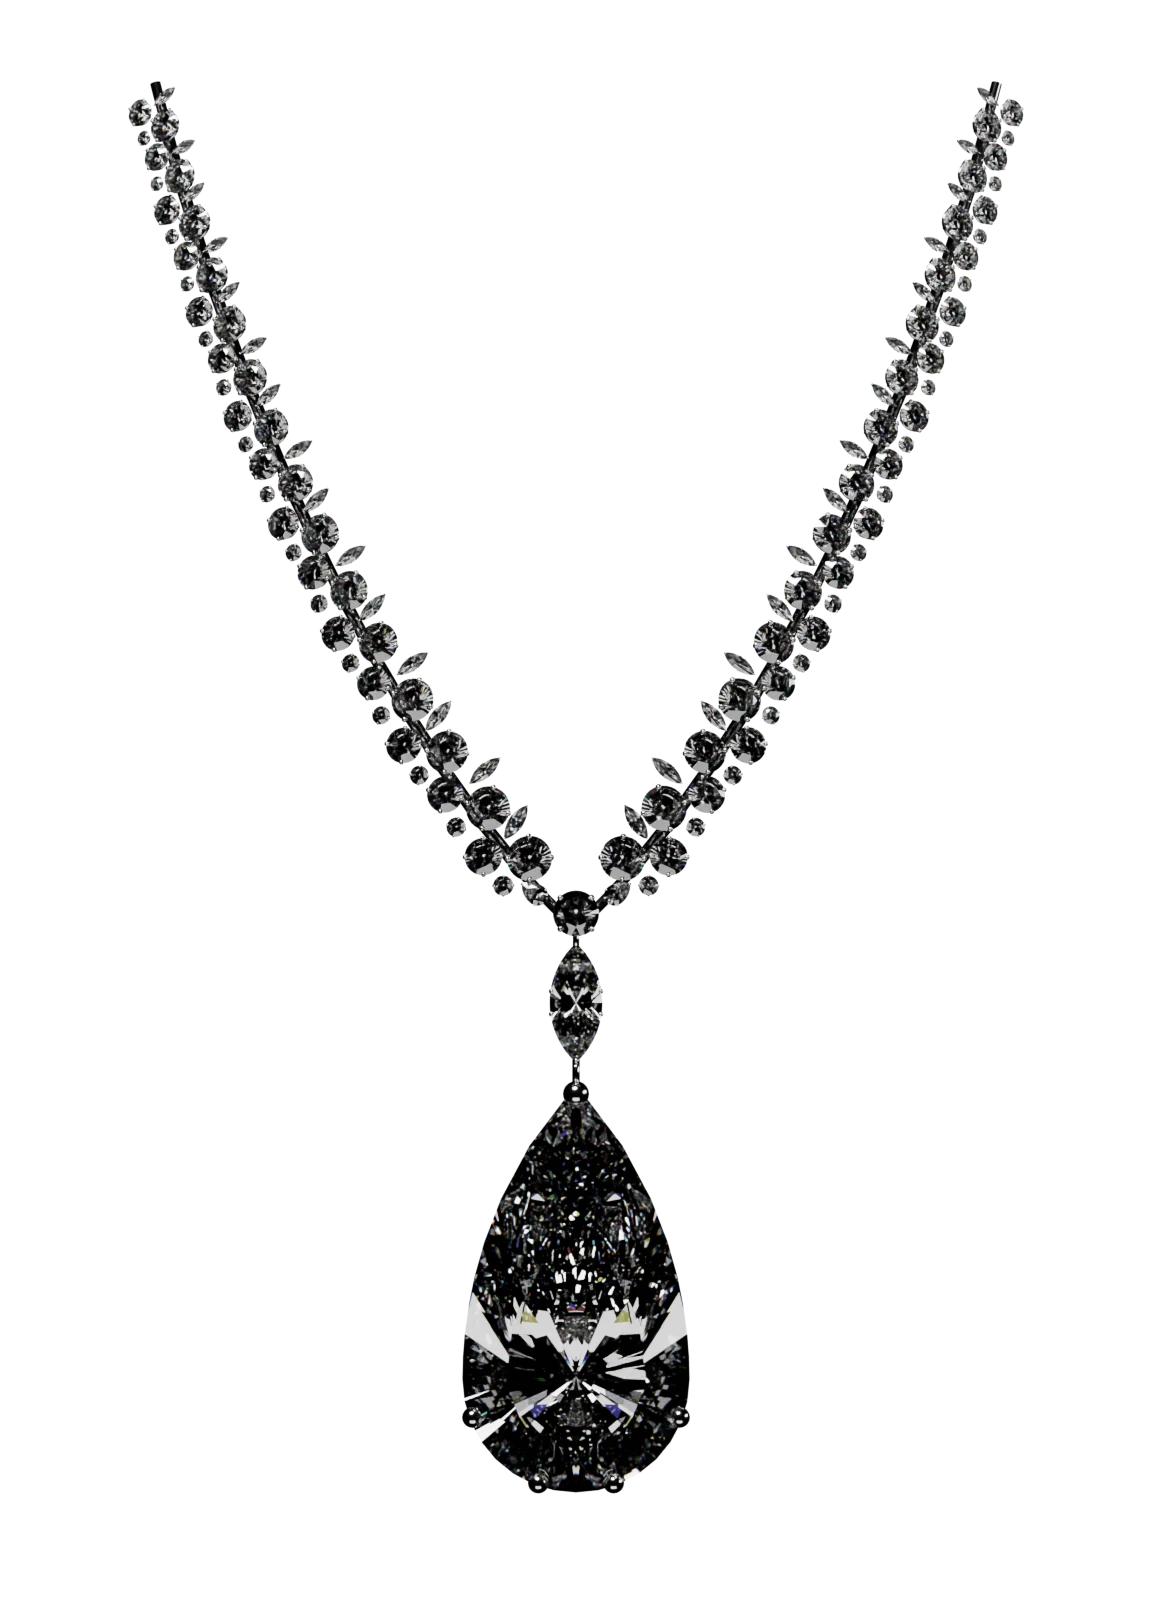
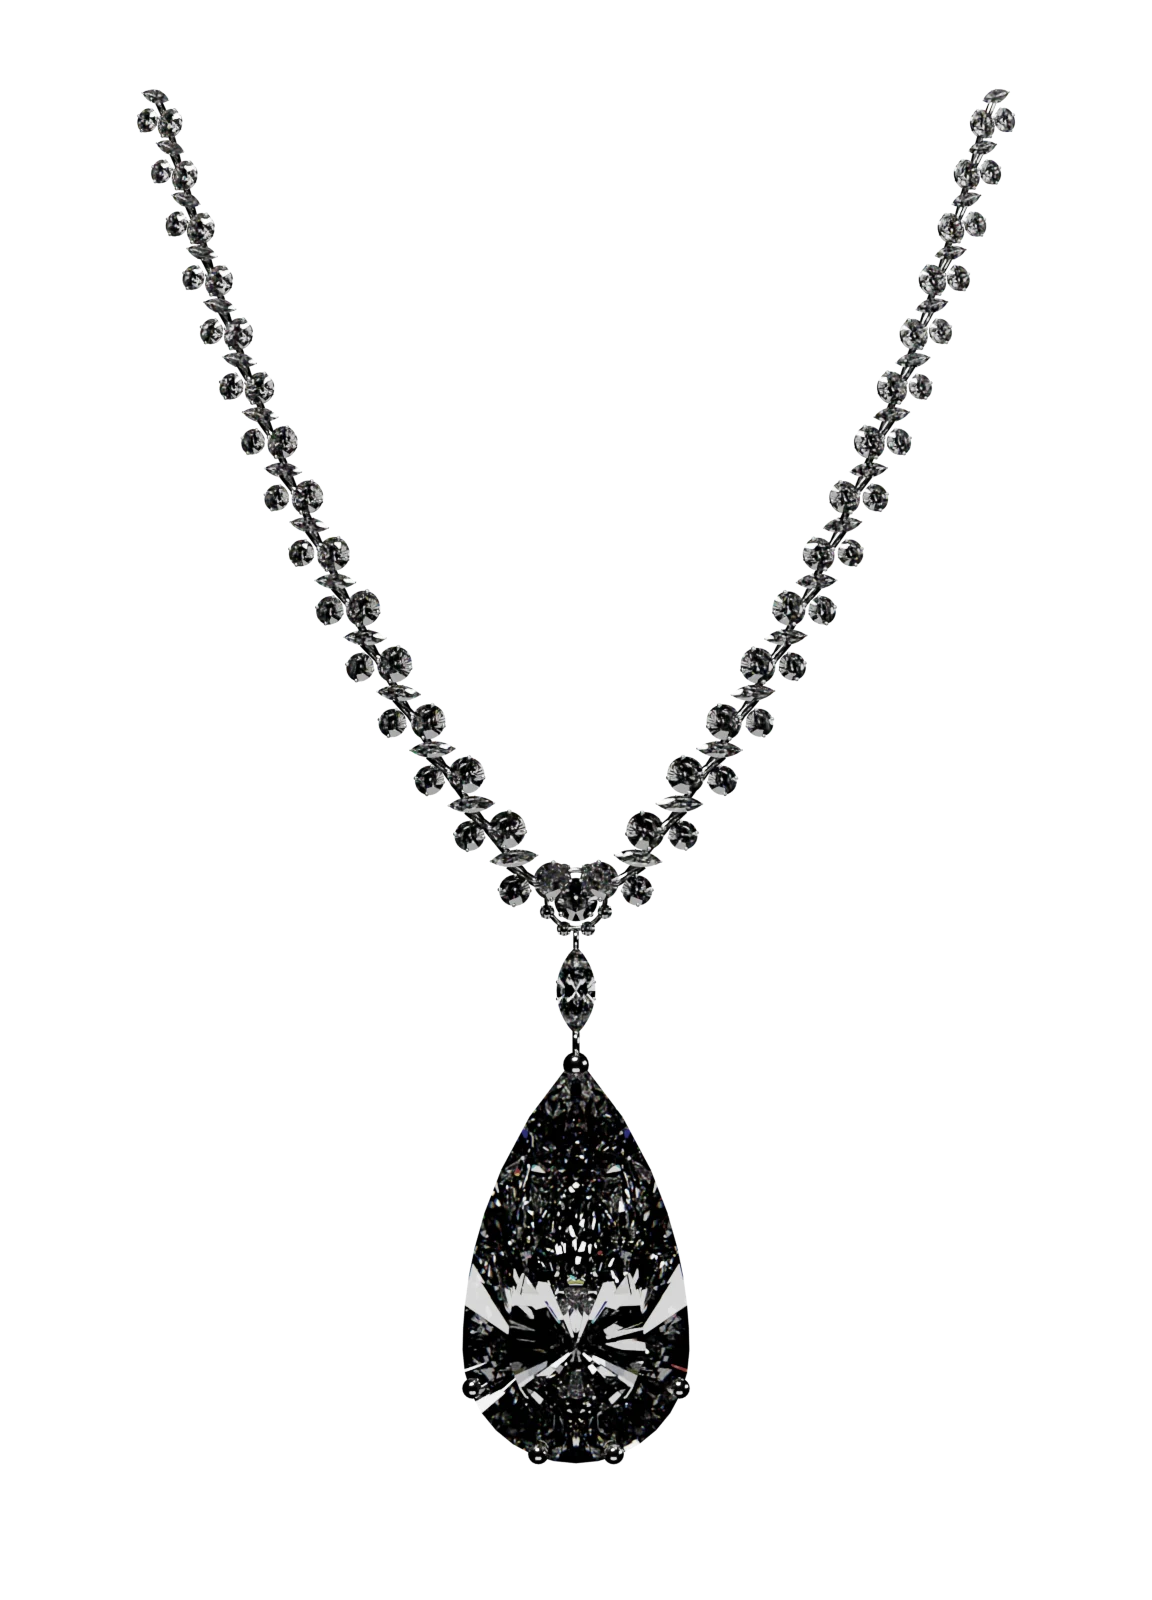
Jewelry: the band rebuilt as the reference's twisted construction; a dark field of its own
- The sides rebuilt, not patched: a continuous band of articulated modules
  along one smooth curve per side, each a diagonal pair of rounds leaning one
  way and a marquise leaning the other on its own gallery, hinged to the next
  (the reference's twisted band); modules close up to one another, narrowing
  toward the neck, about a third of the drop's width at the front.
- The centre: a centre setting where the sides meet (a round ringed by eight
  melee), a standing marquise, the 36 x 20 mm pear drop.
- The jewellery has a dark field of its own (#070707) wherever it is shown
  large, in either theme: the stage (its field fades in and out with its
  layer, as one with its name, words and object) and its world's hero. The
  light theme's separate render is gone: the transparent stones show the
  field through themselves, dark and transparent.
- On a phone the stage band shows the centre and drop large enough to read
  as a necklace; the world's field runs edge to edge.

Claude-Session: https://claude.ai/code/session_01ND34h3CQFwLi2jV16e1Vwz

Changed region(s): [[0.0938, 0.0312, 0.9062, 0.9375]]

diff --git a/art/necklace.py b/art/necklace.py
@@ -2,31 +2,31 @@
 and rendered as a studio photograph of a real piece, floating on nothing.
 
 The design follows a reference photograph (a V necklace on a display bust):
-- two sides that come down from the neck and meet in a V, each a twisted
-  band of round brilliants set in two staggered rows, a marquise laid across
-  every gap between them, the stones growing larger toward the front;
-- at the V a round brilliant, a marquise hanging from it, and from that the
-  pear-shaped drop, point up: 30 x 16 mm, the piece's focus.
+- two sides that come down from the neck along one smooth curve each and
+  meet in a V: a continuous band of articulated modules, each a diagonal
+  pair of round brilliants leaning one way and a marquise leaning the other,
+  on its own gallery, hinged to the next (the reference's twisted band);
+- where they meet, a centre setting (a round ringed by eight melee), a
+  standing marquise, and the pear-shaped drop, point up: 36 x 20 mm, the
+  piece's focus.
 
 Units are millimetres. Every stone is a faceted solid (a round brilliant's
 table, star, bezel, upper and lower girdle and pavilion facets; the pear and
-the marquise are the same brilliant drawn out to their outline), diamond's
-index 2.417, and dispersion from one render per colour channel at that
-channel's index, only part of it kept (fire at the edges, never rainbow
-bands). Each stone sits in its own setting: a collet ring under the girdle
-and claws over its edge (a V claw at a point), all on a rail that runs the
-length of each side; jump rings join the V, the marquise and the drop.
-Platinum with roughness that varies across the surface and fine scratches.
+the marquise are the same brilliant drawn out to their outline), glass at
+diamond's index 2.417, roughness 0.01, rendered once per colour channel at
+the C, d and F lines (Abbe number 55). Each stone sits in its own collet with
+claws over its edge (a V claw at a point); jump rings join the centre, the
+marquise and the drop. Platinum, roughness about 0.12, barely varying.
 
-No ground, no shadow: the necklace hangs in a white light box with dark
-flags (the facets mirror them, which gives a diamond its contrast), a
-large softbox above, and the film is transparent, so the page is its
-background.
+No ground, no shadow: the necklace hangs in a dark studio lit by three large
+soft sources (key, fill, rim at 1 : 0.2 : 0.15) with black flags; the film
+and the glass are transparent, so the page's own dark field (style.py, the
+jewellery's "field") shows through the stones: transparent, and dark.
 
 Run with Blender's Python module (pip install bpy==4.2.0 numpy pillow, Python 3.11):
 
-    python art/necklace.py jewelry.png 1600 160
-    then: Image.open("jewelry.png").save("static/subjects/jewelry.webp", quality=86, method=6)
+    python art/necklace.py jewelry.png 1600 96
+    then: Image.open("jewelry.png").save("static/subjects/jewelry.webp", quality=88, method=6)
 
     python necklace.py OUT.png [height] [samples] [--mono] [--light]"""
 import math
@@ -262,13 +262,20 @@ def jump_ring(p, r, tube, axis):
 
 
 # ---------- the sides: articulated modules along one smooth V ----------
-# Each side is a cubic Bézier from the V up to the neck; a slight tipping of
-# the stones' faces follows the neck they would lie around.
+# Each side is a cubic Bézier from the centre up to the neck, its curve
+# tightening toward the centre; the stones' faces tip a little with the neck
+# they would lie around. Along it, one module repeats, each a small
+# construction of its own on a metal gallery, hinged to the next, and set so
+# the band reads as twisted, as the reference's does:
+#   a diagonal pair of rounds leaning one way (2.5 mm outside, 2.0 mm inside,
+#   half a step on), then a marquise (1.1 x 3.2 mm) leaning the other way.
+# Modules close up to one another; no two stones touch (checked when this was
+# drawn up); metal shows between them.
 NECK = 60.0
 
 
 def bezier(t, sx):
-    p0, p1, p2, p3 = Vector((0, 0, 0)), Vector((sx * 7, 5.5, 0)), Vector((sx * 27, 30, 0)), Vector((sx * 39, 76, 0))
+    p0, p1, p2, p3 = Vector((0, 0, 0)), Vector((sx * 8, 6.5, 0)), Vector((sx * 27, 31, 0)), Vector((sx * 39, 78, 0))
     q = (1 - t) ** 3 * p0 + 3 * (1 - t) ** 2 * t * p1 + 3 * (1 - t) * t ** 2 * p2 + t ** 3 * p3
     q.z = NECK * (math.cos(math.asin(min(abs(q.x) / (NECK + 8), 0.99))) - 1)       # curving back round the neck
     return q
@@ -279,17 +286,13 @@ def face_normal(p):
     return (n + Vector((0, 0.15, 0))).normalized()
 
 
-# one module (mm, in the band's own frame: x along it, y across it, the outside +y):
-# a principal round on the outside, a smaller round on the inside half a step on
-# (the two rows interlock, stone to stone), a small round in the inner notch, and
-# a marquise standing out of the outer notch, the band's leafy outer edge; checked
-# so no two stones touch
-MODULE = [("round", 1.0, 1.40, (0.0, 0.9), 0),
-          ("round", 1.0, 1.15, (2.15, -1.0), 0),
-          ("round", 1.0, 0.60, (0.0, -1.45), 0),
-          ("marquise", 2.8, 0.45, (2.15, 1.95), 80)]
-PITCH = 4.3
-SCALE = 1.45   # the band about a third of the drop's width, as in the reference
+MODULE = [("round", 1.25, (0.0, 1.05), 0),                 # (shape, half-width, place in the band, lean)
+          ("round", 1.0, (1.25, -1.2), 0),
+          ("marquise", 0.55, (2.85, 0.2), -55)]
+PITCH = 4.6
+BASE = 1.35                                                  # the band at the front about a third of the drop's width
+MQ_RATIO = 1.6 / 0.55
+
 
 for sx in (-1, 1):
     ts = [i / 3000 for i in range(3001)]
@@ -302,47 +305,55 @@ for sx in (-1, 1):
         i = min(range(len(lens)), key=lambda k: abs(lens[k] - dist))
         return line[i], (line[min(i + 1, len(line) - 1)] - line[max(i - 1, 0)]).normalized()
 
-    # the hinge rail under the modules, visible between them
-    wire([line[i] + face_normal(line[i]) * -1.6 for i in range(0, len(line), 60)], 0.45)
-    dist, k, prev = 7.0, 0, None
-    while dist < lens[-1] - 2:
-        g = SCALE * (1.0 - 0.3 * min(1.0, dist / 95))         # modules grow toward the front
-        p, t = at(dist)
+    # the modules, from beside the centre setting up to the neck, a little smaller as they go
+    dist, k, prev = 4.2, 0, None
+    while True:
+        g = BASE * (1.0 - 0.25 * min(1.0, dist / 100))
+        if dist + PITCH * g > lens[-1] - 1:
+            break
+        p, t = at(dist + 1.4 * g)
         n = face_normal(p)
-        b = n.cross(t).normalized() * sx                      # across the band, the outside +
-        turn = math.radians(7 if k % 2 else -5)               # each module sits a little differently
+        t = (t - n * t.dot(n)).normalized()
+        b = n.cross(t).normalized() * sx                     # across the band, the outside +
+        turn = math.radians(rng.uniform(-3, 3))              # each module set by hand, a little differently
         t2 = (t * math.cos(turn) + b * math.sin(turn)).normalized()
         b2 = n.cross(t2).normalized() * sx
-        for shape, lh, hw, (u, v), ang in MODULE:
-            pos = p + (t2 * u + b2 * v) * g + n * 0.12
+        for shape, hw, (u, v), lean in MODULE:
+            pos = p + (t2 * (u - 1.4) + b2 * v) * g + n * 0.12 * g
             if shape == "round":
                 place("round", 1.0, hw * g * rng.uniform(0.97, 1.03), pos, n, t2)
             else:
-                a = math.radians(ang)
+                a = math.radians(lean)
                 axis = (t2 * math.cos(a) + b2 * math.sin(a)).normalized()
-                place("marquise", lh, hw * g, pos + n * 0.1, n, axis)
-        # the module's hinge to the last one, under the stones
-        here = p + n * -1.1
+                place("marquise", MQ_RATIO, hw * g, pos + n * 0.08 * g, n, axis)
+        # the module's gallery bar under its stones, hinged to the last
+        here = p - n * 0.9 * g
+        wire([p + (t2 * -1.4 + b2 * 0.5) * g - n * 0.7 * g, here, p + (t2 * 1.5 - b2 * 0.3) * g - n * 0.7 * g], 0.3 * g)
         if prev is not None:
-            wire([prev, (prev + here) / 2 + n * -0.3, here], 0.4 * g)
+            wire([prev, (prev + here) / 2 - n * 0.25 * g, here], 0.26 * g)
         prev = here
         dist += PITCH * g
         k += 1
 
-# ---------- the centre: the two sides gather to a round, then the marquise, then the drop ----------
+# ---------- the centre: a larger cluster where the sides meet, a vertical marquise, the drop ----------
 front = Vector((0, 0.1, 1)).normalized()
-place("round", 1.0, 2.0, Vector((0, 1.0, 0.5)), front, Vector((0, 1, 0)))
-for sx in (-1, 1):                                            # small pears leading each side in
-    place("pear", 1.9, 0.9, Vector((sx * 3.4, 2.6, 0.3)), front, Vector((sx * 0.8, 0.6, 0)).normalized())
-MQ_W, MQ_LH = 2.3, 2.3                                        # 4.6 x 10.6 mm
-place("marquise", MQ_LH, MQ_W, Vector((0, -1.6 - MQ_W * MQ_LH, 0.2)), front, Vector((0, 1, 0)))
-jump_ring(Vector((0, -1.3, -0.3)), 0.8, 0.26, Vector((1, 0, 0)))
-ring_y = -1.6 - 2 * MQ_W * MQ_LH - 0.9
-jump_ring(Vector((0, ring_y, -0.3)), 1.1, 0.32, Vector((1, 0, 0)))
+up = Vector((0, 1, 0))
+CENTRE = Vector((0, 2.2, 0.4))
+place("round", 1.0, 1.9, CENTRE + front * 0.2, front, up)                  # 3.8 mm
+for k in range(8):                                                        # ringed by eight melee
+    a = math.pi / 8 + math.pi / 4 * k
+    place("round", 1.0, 0.62, CENTRE + Vector((math.cos(a), math.sin(a), 0)) * 2.75, front, up)
+wire([CENTRE + Vector((math.cos(2 * math.pi * k / 40), math.sin(2 * math.pi * k / 40), -1.1)) * 1 * 2.6
+      for k in range(40)], 0.2, closed=True)
+MQ_W, MQ_LH = 1.7, 2.3                                                    # the connector: 3.4 x 7.8 mm, standing
+mq_top = CENTRE.y - 3.5 - 0.6
+place("marquise", MQ_LH, MQ_W, Vector((0, mq_top - MQ_W * MQ_LH, 0.2)), front, up)
+jump_ring(Vector((0, CENTRE.y - 3.5, -0.4)), 0.7, 0.24, Vector((1, 0, 0)))
+ring_y = mq_top - 2 * MQ_W * MQ_LH - 0.8
+jump_ring(Vector((0, ring_y, -0.4)), 1.1, 0.32, Vector((1, 0, 0)))
 # the drop: 20 mm across, 36 mm long, point up
 PEAR_W, PEAR_LH = 10.0, 2.6
-place("pear", PEAR_LH, PEAR_W, Vector((0, ring_y - 1.0 - PEAR_LH * PEAR_W, 0.0)), Vector((0, -0.02, 1)).normalized(),
-      Vector((0, 1, 0)))
+place("pear", PEAR_LH, PEAR_W, Vector((0, ring_y - 1.0 - PEAR_LH * PEAR_W, 0.0)), Vector((0, -0.02, 1)).normalized(), up)
 
 # ---------- the studio: dark, lit by three large soft sources ----------
 # The film is transparent and so is the glass where it shows only the dark

diff --git a/coach/visuals.py b/coach/visuals.py
@@ -25,7 +25,8 @@ STATIC = Path(__file__).resolve().parent.parent / "static"
 #   shows    what its object is (alt text)
 #   object   "subjects/<file>"
 #   cut      the object stands free (no background of its own), not framed
-#   light    (optional) the same object photographed for the light theme; "object" is then the dark theme's
+#   field    (optional) "dark": the object needs a dark field of its own to show (a transparent
+#            stone), so wherever it is shown large, it is shown on near-black, in either theme
 #   focus    where a picture sits in its frame (its subject kept in view)
 #   layout   how the world is composed: "figure" (a tall figure beside the
 #            title), "instrument" (an object held in the middle of the
@@ -56,7 +57,7 @@ WORLD = {
     "jewelry": dict(kicker="Craft and materials",
                     shows="A diamond necklace: two twisted bands of round and marquise diamonds meeting in a V, "
                           "a pear-shaped diamond hanging from it",
-                    object="subjects/jewelry.webp", light="subjects/jewelry-light.webp", cut=True, focus="50% 0%", layout="pendant", title="tracked",
+                    object="subjects/jewelry.webp", field="dark", cut=True, focus="50% 0%", layout="pendant", title="tracked",
                     credit="Diamond and platinum necklace with a pear-shaped drop · modelled and rendered for this app"),
     "free": dict(kicker="Across the disciplines",
                  shows="The frontispiece of the Encyclopédie: all the arts and sciences gathered",
@@ -82,14 +83,9 @@ def object_html(topic: str, cls: str, number: int = 0) -> str:
     w = WORLD[topic]
     url = image_url(topic)
     if url:
-        # an object with a light theme's picture: the page shows the one for its theme (style.py)
-        light = w.get("light")
-        themed = (f"--img-dark:url('{url}');--img-light:url('app/static/{light}');"
-                  if light and (STATIC / light).exists() else f"background-image:url('{url}');")
-        return (f'<div class="{cls}{" is-cut" if w.get("cut") else ""}{" is-themed" if "--img-dark" in themed else ""}" '
-                f'data-object="{topic}" data-layout="{w["layout"]}" role="img" '
+        return (f'<div class="{cls}{" is-cut" if w.get("cut") else ""}" data-object="{topic}" data-layout="{w["layout"]}" role="img" '
                 f'aria-label="{escape(w["shows"])}" '
-                f'style="{themed}background-position:{w["focus"]}"></div>')
+                f'style="background-image:url(\'{url}\');background-position:{w["focus"]}"></div>')
     return f'<div class="{cls} no-art" data-object="{topic}" aria-hidden="true" data-n="{number:02d}"></div>'
 
 
@@ -111,6 +107,7 @@ def subject(topic: str) -> dict:
     return {"key": topic, "number": list(settings.SUBJECTS).index(topic) + 1 if topic in settings.SUBJECTS else 0,
             "title": core.TOPICS[topic], "description": settings.DESCRIPTIONS.get(topic, ""),
             "kicker": w["kicker"], "shows": w["shows"], "layout": w["layout"], "title_style": w["title"],
+            "field": w.get("field", ""),
             "credit": credit(topic), "facts": facts(topic)}
 
 

diff --git a/coach/style.py b/coach/style.py
@@ -1897,9 +1897,16 @@ WORLDS = """
 .is-cut { background-size: contain !important; background-repeat: no-repeat !important; border-radius: 0 !important;
   -webkit-mask-image: none !important; mask-image: none !important; filter: none !important; }
 :root[data-scheme="dark"] .is-cut { filter: brightness(0.92) !important; }
-/* an object photographed for each theme: the dark one on the dark page, the light one on the light page */
-.is-themed { background-image: var(--img-light) !important; }
-:root[data-scheme="dark"] .is-themed { background-image: var(--img-dark) !important; filter: none !important; }
+/* a dark field: a subject whose object needs darkness to be seen (a transparent
+   stone) is shown on near-black in either theme, its words set light on it */
+.field-dark, .sg-layer[data-field="dark"], [class*="st-key-world_"][class*="_field"] {
+  --label: #F2F2F2; --label-2: rgba(242, 242, 242, 0.72); --label-3: rgba(242, 242, 242, 0.5); --env: #070707;
+  background: #070707; color: var(--label); color-scheme: dark; }
+.sg-layer[data-field="dark"] .is-cut, [class*="st-key-world_"][class*="_field"] .is-cut { filter: none !important; }
+[class*="st-key-world_"][class*="_field"] { padding: clamp(24px, 4vw, 56px) !important; border-radius: 22px; corner-shape: superellipse(1.6); }
+@media (min-width: 900px) { .sg-layer[data-field="dark"] { padding: clamp(20px, 2.6vw, 36px); border-radius: 22px; corner-shape: superellipse(1.6); } }
+@media (max-width: 899px) { [class*="st-key-world_"][class*="_field"] { padding: 20px 16px !important; margin: 0 -16px; border-radius: 0;
+  width: calc(100% + 32px) !important; max-width: none !important; } }
 
 .w-object.is-cut { background-position: 35% bottom !important; }
 .w-thumb.is-cut, .ob-obj.is-cut { background-color: var(--wash) !important; background-size: auto 86% !important; background-position: center !important; }
@@ -1920,7 +1927,8 @@ WORLDS = """
   [class*="st-key-w_sec_"] { display: flex !important; flex-direction: column; }
   /* on a narrow page the object stands to the right of the words */
   .sg-art.is-cut { inset: 12px 16px 12px 48%; background-position: right center !important; }
-  .sg-art.is-cut[data-layout="pendant"] { inset: 0 16px 0 50%; background-position: right top !important; }
+  /* a necklace in the narrow band: its centre and drop, large enough to read as a necklace, not a speck */
+  .sg-art.is-cut[data-layout="pendant"] { inset: 0 4px 0 60%; background-size: auto 150% !important; background-position: 50% 96% !important; }
 }
 @media (prefers-reduced-motion: reduce) {
   .w-kicker, .stApp .w-title, .w-about, .w-meta, .st-key-w_actions { animation: none; }

diff --git a/tests/test_visuals.py b/tests/test_visuals.py
@@ -26,11 +26,9 @@ def test_free_standing_objects_are_marked_and_have_no_backdrop():
         assert ("is-cut" in html) == bool(w.get("cut"))
         if w.get("cut"):
             # a cut object is a picture with its own transparency, clear at its corners
-            for f in filter(None, (w["object"], w.get("light"))):
-                im = Image.open(visuals.STATIC / f)
-                assert im.mode == "RGBA" and im.getpixel((0, 0))[3] == 0
-    html = visuals.object_html("jewelry", "w-object", 6)
-    assert "is-themed" in html and "--img-dark" in html and "--img-light" in html
+            im = Image.open(visuals.STATIC / w["object"])
+            assert im.mode == "RGBA" and im.getpixel((0, 0))[3] == 0
+    assert visuals.subject("jewelry")["field"] == "dark" and visuals.subject("philosophy")["field"] == ""
     assert visuals.WORLD["jewelry"]["cut"] and visuals.credit("jewelry")
 
 

diff --git a/tests/test_stage.py b/tests/test_stage.py
@@ -15,7 +15,8 @@ def test_the_stage_is_drawn_with_its_focus_showing():
     html = stage.html("jewelry", "subj")
     assert 'data-focus="jewelry"' in html and 'data-group="subj"' in html
     # only the subject in focus is exposed; every layer's name, words and object are its own subject's
-    assert re.findall(r'data-t="(\w+)" aria-hidden="false"', html) == ["jewelry"]
+    assert re.findall(r'data-t="(\w+)" data-field="\w*" aria-hidden="false"', html) == ["jewelry"]
+    assert 'data-t="jewelry" data-field="dark"' in html
     for t in settings.SUBJECTS:
         layer = html.split(f'data-t="{t}"')[1].split('class="sg-layer"')[0]
         s = visuals.subject(t)

diff --git a/coach/stage.py b/coach/stage.py
@@ -20,7 +20,7 @@ def html(focus: str, group: str) -> str:
         s = visuals.subject(t)
         f = s["facts"]
         layers.append(
-            f'<div class="sg-layer" data-t="{t}" aria-hidden="{"false" if t == focus else "true"}">'
+            f'<div class="sg-layer" data-t="{t}" data-field="{s["field"]}" aria-hidden="{"false" if t == focus else "true"}">'
             + visuals.object_html(t, "sg-art", s["number"])
             + f'<div class="sg-head sg-title-{s["title_style"]}">'
             f'<p class="sg-kicker">{s["number"]:02d} · {escape(s["kicker"])}</p>'

diff --git a/views/world.py b/views/world.py
@@ -55,7 +55,7 @@ with st.container(key="w_back"):
         all_subjects()
 
 # ---------- the world: its name at the top, its object, and what she can do here ----------
-with st.container(key=f"world_{w['layout']}"):
+with st.container(key=f"world_{w['layout']}" + ("_field" if s["field"] else "")):
     with st.container(key="w_head"):
         st.html(f'<div class="w-copy w-title-{s["title_style"]}">'
                 f'<p class="w-kicker">{number:02d} · {escape(s["kicker"])}</p>'
